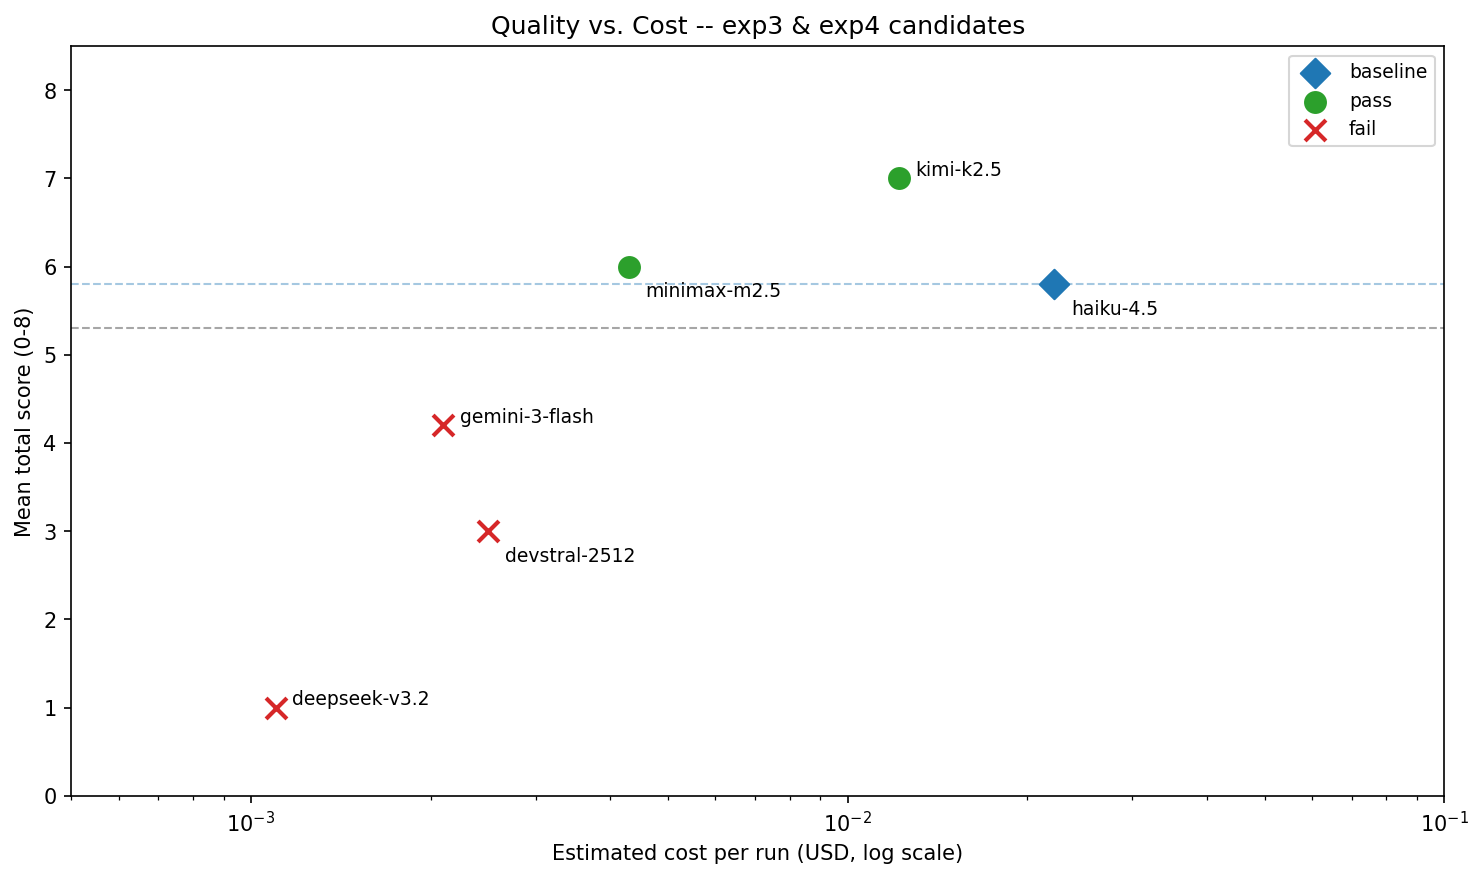
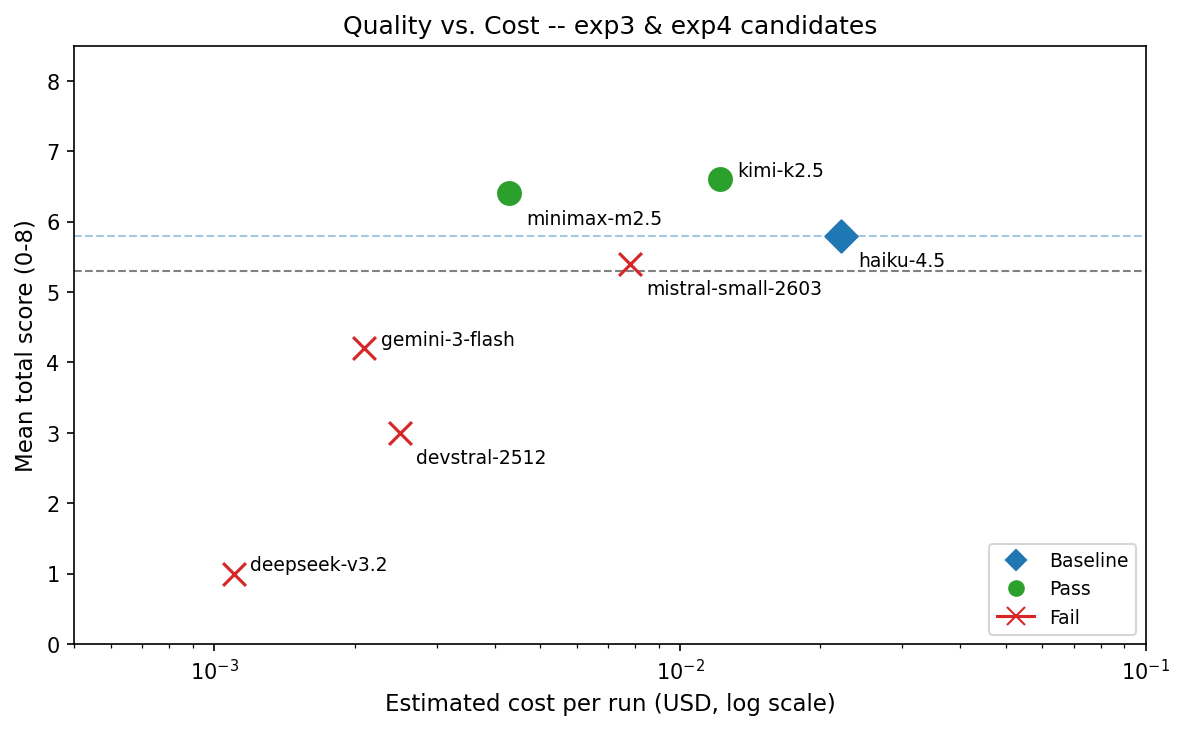
docs(exp4): add mistral-small-2603 results and fix pre-existing mean errors (#20)
* docs(exp4): add mistral-small-2603 results and fix pre-existing mean errors

- Add mistral-small-2603 to README results table: n=5, mean=5.4, verdict=fail
  (fails gate_2: min score 4 < floor threshold 5)
- Fix kimi-k2.5 mean 7.0 -> 6.6 (from scores [8,6,6,6,7] in analysis.json)
- Fix minimax-m2.5 mean 6.0 -> 6.4 (from scores [6,8,6,5,7] in analysis.json)
- Add runs 36-40 to Session Files section (18 total sessions)
- Add Latency Reconstruction Note for runs 36-37 wall times
- Add scores-mistral.json to Documentation section
- Create METHODOLOGY.md: blinding procedure, rubric, gate criteria,
  Mann-Whitney test details, efficiency metric formula, candidate notes
- Update all 4 figure scripts with mistral data and corrected means
- Regenerate all 4 PNGs

Closes #19

* docs: add mistral-small-2603 to root README and fix stale values

- Add mistral-small-2603 to Table 2 (Results): n=5, mean=5.4, error_rate=0.375, verdict=fail
- Add mistral-small-2603 to Table 3 (Efficiency): eff=$0.002/QP (lowest), cost=$0.008/run
- Fix C3 rubric description: 'Cargo.toml absence explicitly noted' (was generic placeholder)
- Fix C4-C8 rubric descriptions to match actual rubric.md definitions
- Fix kimi mean 7.0 -> 6.6 in Tables 2 and 3 (authoritative: analysis.json)
- Fix minimax mean 6.0 -> 6.4 in Tables 2 and 3
- Fix kimi eff $0.038 -> $0.040, minimax eff $0.019 -> $0.018
- Update abstract: 6 models -> 7 models, 28 runs -> 33 runs, corrected means
- Update badges: sessions=33, runs=33
[…]

diff --git a/figures/cost-quality-scatter.py b/figures/cost-quality-scatter.py
@@ -3,10 +3,10 @@ matplotlib.use('Agg')
 import matplotlib.pyplot as plt
 from matplotlib.lines import Line2D
 
-models     = ["haiku-4.5", "kimi-k2.5", "minimax-m2.5", "gemini-3-flash", "devstral-2512", "deepseek-v3.2"]
-cost_usd   = [0.0222, 0.0122, 0.0043, 0.0021, 0.0025, 0.0011]
-mean_score = [5.8, 7.0, 6.0, 4.2, 3.0, 1.0]
-verdicts   = ["baseline", "pass", "pass", "fail", "fail", "fail"]
+models     = ["haiku-4.5", "kimi-k2.5", "minimax-m2.5", "gemini-3-flash", "devstral-2512", "deepseek-v3.2", "mistral-small-2603"]
+cost_usd   = [0.0222, 0.0122, 0.0043, 0.0021, 0.0025, 0.0011, 0.0078]
+mean_score = [5.8, 6.6, 6.4, 4.2, 3.0, 1.0, 5.4]
+verdicts   = ["baseline", "pass", "pass", "fail", "fail", "fail", "fail"]
 
 colors  = {"baseline": "#1f77b4", "pass": "#2ca02c", "fail": "#d62728"}
 markers = {"baseline": "D", "pass": "o", "fail": "x"}
@@ -17,6 +17,7 @@ offsets = {
     "gemini-3-flash": (8,   4),
     "devstral-2512":  (8, -12),
     "deepseek-v3.2":  (8,   4),
+    "mistral-small-2603": (8, -12),
 }
 
 fig, ax = plt.subplots(figsize=(8, 5))

diff --git a/figures/eff-cost-bar.py b/figures/eff-cost-bar.py
@@ -2,9 +2,9 @@ import matplotlib
 matplotlib.use('Agg')
 import matplotlib.pyplot as plt
 
-models    = ["minimax-m2.5", "gemini-3-flash", "deepseek-v3.2", "kimi-k2.5", "devstral-2512", "haiku-4.5"]
-eff_cpqp  = [0.0191,         0.0217,           0.0211,          0.0378,       0.045,           0.1505]
-verdicts  = ["pass",         "fail",           "fail",          "pass",       "fail",          "baseline"]
+models    = ["minimax-m2.5", "gemini-3-flash", "deepseek-v3.2", "mistral-small-2603", "kimi-k2.5", "devstral-2512", "haiku-4.5"]
+eff_cpqp  = [0.0179,         0.0217,           0.0210,          0.0023,               0.0401,       0.045,           0.1505]
+verdicts  = ["pass",         "fail",           "fail",          "fail",               "pass",       "fail",          "baseline"]
 
 # Sort by eff_cpqp ascending
 sorted_data = sorted(zip(eff_cpqp, models, verdicts))

diff --git a/figures/mean-score-bar.py b/figures/mean-score-bar.py
@@ -2,9 +2,9 @@ import matplotlib
 matplotlib.use('Agg')
 import matplotlib.pyplot as plt
 
-models   = ["haiku-4.5\n(baseline)", "gemini-3-flash\n(exp3)", "devstral-2512\n(exp3)", "minimax-m2.5\n(exp4)", "kimi-k2.5\n(exp4)", "deepseek-v3.2\n(exp4)"]
-scores   = [5.8, 4.2, 3.0, 6.0, 7.0, 1.0]
-verdicts = ["baseline", "fail", "fail", "pass", "pass", "fail"]
+models   = ["haiku-4.5\n(baseline)", "gemini-3-flash\n(exp3)", "devstral-2512\n(exp3)", "minimax-m2.5\n(exp4)", "kimi-k2.5\n(exp4)", "deepseek-v3.2\n(exp4)", "mistral-small-2603\n(exp4)"]
+scores   = [5.8, 4.2, 3.0, 6.4, 6.6, 1.0, 5.4]
+verdicts = ["baseline", "fail", "fail", "pass", "pass", "fail", "fail"]
 
 colors = {"baseline": "#1f77b4", "pass": "#2ca02c", "fail": "#d62728"}
 bar_colors = [colors[v] for v in verdicts]

diff --git a/figures/criterion-heatmap.py b/figures/criterion-heatmap.py
@@ -10,6 +10,7 @@ models = [
     'gemini-3-flash\n(fail)',
     'devstral-2512\n(fail)',
     'deepseek-v3.2\n(fail)',
+    'mistral-small-2603\n(fail)',
 ]
 criteria = ['C1', 'C2', 'C3', 'C4', 'C5', 'C6', 'C7', 'C8']
 data = np.array([
@@ -19,9 +20,10 @@ data = np.array([
     [1.0, 1.0, 0.0, 0.8, 0.2, 0.0, 0.2, 1.0],  # gemini
     [1.0, 0.8, 0.0, 0.0, 0.0, 0.0, 0.2, 1.0],  # devstral
     [0.0, 0.0, 0.0, 0.0, 0.0, 0.0, 0.0, 1.0],  # deepseek
+    [1.0, 1.0, 0.0, 1.0, 0.0, 0.6, 0.6, 1.0],  # mistral
 ])
 
-fig, ax = plt.subplots(figsize=(10, 5))
+fig, ax = plt.subplots(figsize=(10, 6))
 cmap = plt.get_cmap('RdYlGn')
 im = ax.imshow(data, cmap=cmap, vmin=0, vmax=1, aspect='auto')
 

diff --git a/README.md b/README.md
@@ -4,10 +4,10 @@
 
 [![DOI](https://zenodo.org/badge/DOI/10.5281/zenodo.19056876.svg)](https://doi.org/10.5281/zenodo.19056876)
 [![License: Apache 2.0](https://img.shields.io/badge/License-Apache%202.0-blue.svg)](LICENSE)
-[![Sessions](https://img.shields.io/badge/sessions-28-green)](experiments/)
-[![Runs](https://img.shields.io/badge/runs-28-blue)](experiments/)
+[![Sessions](https://img.shields.io/badge/sessions-33-green)](experiments/)
+[![Runs](https://img.shields.io/badge/runs-33-blue)](experiments/)
 
-Deploying LLM agents at scale demands cost-effective model selection for each role in a multi-agent pipeline. We investigate whether open-weight models can serve as drop-in replacements for a proprietary baseline (Claude Haiku 4.5) in a specialized research synthesis agent role, using a pre-registered, blinded 8-criterion binary rubric across two sequential experiments (6 models, 28 runs; approximately 4-5 runs per model). Candidate quality was evaluated against a Mann-Whitney U non-inferiority criterion (alpha=0.05). Two candidates meet all non-inferiority thresholds: Kimi K2.5 (mean 7.0/8) and MiniMax M2.5 (mean 6.0/8; API cost 87% lower than the baseline per run). Two candidates fail on reliability: Qwen3 Coder (0 of 7 valid runs) and DeepSeek V3.2 (40% error rate); Gemini 3 Flash and Devstral 2512 also fail to meet quality thresholds. Results are limited to a single task type and pipeline configuration; generalizability to other agent roles requires further study. The evaluation protocol is released as a reusable template for role-level model substitution assessments in multi-agent systems.
+Deploying LLM agents at scale demands cost-effective model selection for each role in a multi-agent pipeline. We investigate whether open-weight models can serve as drop-in replacements for a proprietary baseline (Claude Haiku 4.5) in a specialized research synthesis agent role, using a pre-registered, blinded 8-criterion binary rubric across two sequential experiments (7 models, 33 runs; approximately 4-5 runs per model (except DeepSeek V3.2: 3 valid due to infrastructure failures)). Candidate quality was evaluated against a Mann-Whitney U non-inferiority criterion (alpha=0.05). Two candidates meet all non-inferiority thresholds: Kimi K2.5 (mean 6.6/8) and MiniMax M2.5 (mean 6.4/8; API cost 87% lower than the baseline per run). Two candidates fail on reliability: Qwen3 Coder (0 of 7 valid runs) and DeepSeek V3.2 (40% error rate); Gemini 3 Flash, Devstral 2512, and Mistral Small 2603 also fail to meet quality thresholds. Results are limited to a single task type and pipeline configuration; generalizability to other agent roles requires further study. The evaluation protocol is released as a reusable template for role-level model substitution assessments in multi-agent systems.
 
 </div>
 
@@ -21,28 +21,31 @@ Can open-weight models serve as drop-in replacements for a proprietary LLM basel
 |-----------|-------------|
 | C1 | Correct problem decomposition |
 | C2 | Appropriate tool selection |
-| C3 | Valid syntax across all artifacts |
-| C4 | Handles edge cases |
-| C5 | Error handling present |
-| C6 | No redundant or circular logic |
-| C7 | Architecture matches specification |
-| C8 | Code usability and clarity |
+| C3 | Cargo.toml absence explicitly noted |
+| C4 | Hybrid vs. full-migration tradeoff articulated with codebase evidence |
+| C5 | At least 2 specific patterns identified as requiring multi-line detection |
+| C6 | Data-flow/taint tracking gap noted as unsolved by tree-sitter alone |
+| C7 | Non-obvious architectural implication requiring code synthesis |
+| C8 | Valid JSON output per handoff schema |
 
-*Table 1: Eight-criterion binary scoring rubric (0-8 total). Applied identically across exp3 and exp4; rubric locked before any delegates were spawned.*
+*Table 1: Eight-criterion binary scoring rubric (0-8 total). Rubric locked before any delegates were spawned. C3 definition was refined between exp3 and exp4 (exp3 C3: "Tree-sitter dependency absent from Cargo.toml"; exp4 C3: "Cargo.toml absence explicitly noted by the delegate"). Exp3 scores were not rescored under the updated definition; reported means reflect the rubric version in effect at time of scoring.*
 
 ## Results
 
-| Model | Exp | n | Mean | Error rate | Verdict |
-|-------|-----|---|------|------------|---------|
-| Claude Haiku 4.5 | 3 | 5 | 5.8 | 0.0 | baseline |
-| Qwen3 Coder | 3 | 0 | n/a | 1.0 | excluded (0/7 valid runs) |
-| Gemini 3 Flash | 3 | 5 | 4.2 | 0.0 | fail |
-| Devstral 2512 | 3 | 5 | 3.0 | 0.0 | fail |
-| MiniMax M2.5 | 4 | 5 | 6.0 | 0.0 | pass |
-| DeepSeek V3.2 | 4 | 3 | 1.0 | 0.4 | fail |
-| Kimi K2.5 | 4 | 5 | 7.0 | 0.0 | pass |
+| Model | n | Mean | Error rate | Verdict |
+|-------|---|------|------------|---------|
+| Claude Haiku 4.5 | 5 | 5.8 | 0.0 | baseline |
+| Kimi K2.5 | 5 | 6.6 | 0.0 | pass |
+| MiniMax M2.5 | 5 | 6.4 | 0.0 | pass |
+| Mistral Small 2603 | 5 | 5.4 | 0.375 | fail |
+| Gemini 3 Flash | 5 | 4.2 | 0.0 | fail |
+| Devstral 2512 | 5 | 3.0 | 0.0 | fail |
+| DeepSeek V3.2 | 3 | 1.0 | 0.4 | fail |
+| Qwen3 Coder | 0 | n/a | 1.0 | excluded (0/7 valid runs) |
 
-*Table 2: Per-model results across exp3 (discovery) and exp4 (validation). Error rate = fraction of runs that failed to produce valid output. Exp4 candidates compared against the exp3 baseline; Mann-Whitney U p-values are in analysis.json.*
+*Table 2: Per-model results. Baseline first, then sorted by mean score descending. Error rate = fraction of runs that failed to produce valid output. Exp3 = discovery round (Haiku 4.5, Qwen3 Coder, Gemini 3 Flash, Devstral 2512); exp4 = validation round (MiniMax M2.5, DeepSeek V3.2, Kimi K2.5, Mistral Small 2603). Full data in experiments/. Mann-Whitney U p-values in analysis.json. Verdict requires passing all four gates: mean > 5.3, min score >= 5, n_valid >= 5, and Mann-Whitney non-inferiority (p >= 0.05 vs baseline). A model can fail despite a mean above the threshold if any other gate fails (e.g., Mistral Small 2603: mean=5.4 passes gate 1 but min score=4 fails gate 2).*
+
+### Mean Score
 
 ![Mean score bar chart](figures/mean-score-bar.png)
 
@@ -54,7 +57,7 @@ Cost and token efficiency data are in `efficiency.json` within each experiment d
 
 ![Criterion pass rate heatmap](figures/criterion-heatmap.png)
 
-*Figure 2: Pass rate per criterion (C1-C8) for all six evaluated models across exp3 and exp4. Values are the fraction of valid runs satisfying each binary criterion (0.0-1.0). Row order: baseline, passing candidates, failing candidates.*
+*Figure 2: Pass rate per criterion (C1-C8) for all seven evaluated models across exp3 and exp4. Values are the fraction of valid runs satisfying each binary criterion (0.0-1.0). Row order: baseline, passing candidates, failing candidates.*
 
 ### Cost vs. Quality
 
@@ -68,16 +71,17 @@ Composite metric: `eff_cost_per_qp = cost_per_run / (mean_score * reliability)`.
 
 | Model | Score | Cost/Run | Reliability | Eff. $/QP | Wall Time | Verdict |
 |-------|-------|----------|-------------|-----------|-----------|---------|
-| MiniMax M2.5 | 6.0 | $0.115 | 1.000 | **$0.019** | 5.1m | pass |
+| Mistral Small 2603 | 5.4 | $0.008 | 0.625 | **$0.002** | 1.8m | fail |
+| MiniMax M2.5 | 6.4 | $0.115 | 1.000 | $0.018 | 5.1m | pass |
 | DeepSeek V3.2 | 1.0 | $0.007 | 0.333 | $0.021 | 2.1m | fail |
 | Gemini 3 Flash | 4.2 | $0.057 | 0.625 | $0.022 | 2.7m | fail |
-| Kimi K2.5 | 7.0 | $0.221 | 0.833 | $0.038 | 11.6m | pass |
+| Kimi K2.5 | 6.6 | $0.221 | 0.833 | $0.040 | 11.6m | pass |
 | Devstral 2512 | 3.0 | $0.113 | 0.833 | $0.045 | 2.6m | fail |
 | Haiku 4.5 | 5.8 | $0.873 | 1.000 | $0.150 | 2.8m | baseline |
 
 *Table 3: Composite efficiency metric (eff_cost_per_qp) per model. Sort order: ascending eff_cost_per_qp. Qwen3 Coder omitted (0 valid runs; metric undefined). DeepSeek V3.2 included for completeness but fails all quality gates.*
 
-DeepSeek V3.2 ranks 2nd by this metric but fails all gates; eff_cost_per_qp is not a valid ranking signal for models that do not pass. Among passing candidates, MiniMax M2.5 ($0.019/QP) is 2x more cost-effective per quality point than Kimi K2.5 ($0.038/QP). Wall time is reported separately and is not folded into the composite.
+DeepSeek V3.2 ranks 2nd by this metric but fails all gates; eff_cost_per_qp is not a valid ranking signal for models that do not pass. Among passing candidates, MiniMax M2.5 ($0.018/QP) is 2x more cost-effective per quality point than Kimi K2.5 ($0.040/QP). Wall time is reported separately and is not folded into the composite.
 
 Qwen3 Coder is omitted (0 valid runs; metric is undefined).
 
@@ -205,7 +209,7 @@ All experiments used Goose 1.27.2 as the agent orchestrator. To reproduce:
 
 ## Impact
 
-These experiments directly informed changes to the coder recipe. Following exp4 results and a parallel refactor of the `code-analyze` MCP server to reduce token overhead ([clouatre-labs/code-analyze-mcp#264](https://github.com/clouatre-labs/code-analyze-mcp/issues/264)), SCOUT was upgraded from Claude Haiku 4.5 to Claude Sonnet 4.6; the lower per-token cost of the compact MCP format made Sonnet viable at SCOUT's session length. The recipe was rewritten to define each agent role as a named subagent file, achieving cross-compatibility between Goose and Claude Code (see [blog post](https://clouatre.ca/posts/orchestrating-ai-agents-subagent-architecture/)). MiniMax M2.5 (exp4: mean 6.0/8, error rate 0.0) was adopted for GUARD with a reduced adversarial scope, replacing Haiku at lower cost.
+These experiments directly informed changes to the coder recipe. Following exp4 results and a parallel refactor of the `code-analyze` MCP server to reduce token overhead ([clouatre-labs/code-analyze-mcp#264](https://github.com/clouatre-labs/code-analyze-mcp/issues/264)), SCOUT was upgraded from Claude Haiku 4.5 to Claude Sonnet 4.6; the lower per-token cost of the compact MCP format made Sonnet viable at SCOUT's session length. The recipe was rewritten to define each agent role as a named subagent file, achieving cross-compatibility between Goose and Claude Code (see [blog post](https://clouatre.ca/posts/orchestrating-ai-agents-subagent-architecture/)). MiniMax M2.5 (exp4: mean 6.4/8, error rate 0.0) was adopted for GUARD with a reduced adversarial scope, replacing Haiku at lower cost.
 
 ## Limitations
 

diff --git a/experiments/exp4-model-comparison-r2/README.md b/experiments/exp4-model-comparison-r2/README.md
@@ -2,7 +2,7 @@
 
 ## Research Question
 
-Do higher-tier open-weight models (MiniMax M2.5, DeepSeek V3.2, Kimi K2.5) provide viable SCOUT delegate candidates while maintaining reasonable cost?
+Do higher-tier open-weight models (MiniMax M2.5, DeepSeek V3.2, Kimi K2.5, Mistral Small 2603) provide viable SCOUT delegate candidates while maintaining reasonable cost?
 
 ## Context
 
@@ -18,23 +18,27 @@ The baseline (Claude Haiku 4.5, mean=5.8) is reused from exp3 to enable cross-ro
 | MiniMax M2.5 | OpenRouter | ~$0.02 |
 | DeepSeek V3.2 | OpenRouter | ~$0.01 |
 | Kimi K2.5 | OpenRouter | ~$0.03 |
+| Mistral Small 2603 | OpenRouter | ~$0.008 |
 
 ## Results
 
 | Model | n valid | Mean | Error rate | p vs Haiku | r | Verdict |
 |-------|---------|------|------------|-----------|---|---------|
 | Claude Haiku 4.5 (baseline) | 5 | 5.8 | 0.0 | -- | -- | baseline |
-| MiniMax M2.5 | 5 | 6.0 | 0.0 | 0.492 | 0.28 | pass |
-| DeepSeek V3.2 | 3 | 1.0 | 0.4 | 0.018 | -1.0 | fail |
-| Kimi K2.5 | 5 | 7.0 | 0.0 | 0.183 | 0.60 | pass |
+| MiniMax M2.5 | 5 | 6.4 | 0.0 | 0.524 | -0.32 | pass |
+| DeepSeek V3.2 | 3 | 1.0 | 0.4 | 0.036 | 1.0 | fail |
+| Kimi K2.5 | 5 | 6.6 | 0.0 | 0.238 | -0.48 | pass |
+| Mistral Small 2603 | 5 | 5.4 | 0.375 | 1.000 | 0.04 | fail |
 
 ## Key Finding
 
-Two of three candidates pass all gate criteria. Kimi K2.5 (mean=7.0) outperforms the baseline, demonstrating that higher-tier open-weight models can exceed Haiku 4.5 quality on SCOUT tasks. DeepSeek V3.2 fails all four gates with a 40% run error rate, suggesting infrastructure or prompt-adherence issues.
+Two of four candidates pass all gate criteria. Kimi K2.5 (mean=6.6) outperforms the baseline, demonstrating that higher-tier open-weight models can exceed Haiku 4.5 quality on SCOUT tasks. MiniMax M2.5 also passes. DeepSeek V3.2 and Mistral Small 2603 fail: DeepSeek exhibits infrastructure issues (40% error rate), while Mistral fails the minimum score gate (lowest run scored 4 vs required threshold 5) despite passing the mean gate (5.4 > 5.3).
 
 ## Session Gap Note
 
 Runs 27 and 30 are absent from the session directory. DeepSeek V3.2 produced no parseable JSON output on those two attempts (logged in `latency-log.jsonl`).
+
+Runs 36-40 (Mistral Small 2603) appear as separate batches in `sessions/`: runs 36-37 have longer time gaps between associated log entries and were executed in a separate session batch from runs 38-40.
 
 ## Documentation
 
@@ -44,6 +48,7 @@ Runs 27 and 30 are absent from the session directory. DeepSeek V3.2 produced no 
 - **Scorer Prompt**: [scorer-prompt.md](scorer-prompt.md) — prompt template for rubric-based evaluation
 - **Analysis**: [analysis.json](analysis.json) — parsed scores with statistical summaries
 - **Scores**: [scores.json](scores.json) — raw run-level scores per criterion
+- **Scores (Mistral)**: [scores-mistral.json](scores-mistral.json) — raw run-level scores for Mistral Small 2603
 - **Efficiency**: [efficiency.json](efficiency.json) — latency and token usage per run
 - **Label Map**: [label-map.json](label-map.json) — run_id to model name mapping (sealed before scoring; revealed after)
 - **Latency Log**: [latency-log.jsonl](latency-log.jsonl) — per-line timing data for all runs
@@ -54,13 +59,18 @@ This experiment uses the same 8-criterion rubric as exp3. See `rubric.md` in thi
 
 ## Session Files
 
-13 session records are stored in `sessions/`:
+18 session records are stored in `sessions/`:
 - `scout-run-21.json` through `scout-run-25.json`: MiniMax M2.5
 - `scout-run-26.json`: DeepSeek V3.2 (run 1 of 3)
 - `scout-run-28.json` through `scout-run-29.json`: DeepSeek V3.2 (runs 2-3, sparse)
 - `scout-run-31.json` through `scout-run-35.json`: Kimi K2.5
+- `scout-run-36.json` through `scout-run-40.json`: Mistral Small 2603
 - Runs 27 and 30 (DeepSeek V3.2) are absent due to JSON parsing failures
 
 ## Methodology
 
-See [parent repository README](../../README.md) for full methodology and architectural overview of SCOUT.
+See [METHODOLOGY.md](METHODOLOGY.md) for blinding protocol, rubric details, scoring procedure, gate criteria, and statistical tests. See [parent repository README](../../README.md) for full architectural overview of SCOUT.
+
+## Latency Reconstruction Note
+
+Runs 36-37 (Mistral Small 2603) wall times are derived from sessions.db created_at timestamps rather than directly measured in latency-log.jsonl. Run 36 attempt 1 produced truncated output (4 tokens) requiring retry; run 37 attempt 2 completed successfully (381 tokens). Wall time values in efficiency.json reflect individual session durations, not cumulative retry overhead.

diff --git a/experiments/exp4-model-comparison-r2/METHODOLOGY.md b/experiments/exp4-model-comparison-r2/METHODOLOGY.md
@@ -1,0 +1,78 @@
+# Experiment 4: Methodology
+
+## Experimental Design
+
+Four candidates tested against Claude Haiku 4.5 baseline (reused from exp3). 5 runs per candidate (DeepSeek V3.2: 3 valid from 9 total attempts; Mistral Small 2603: 5 valid from 8 total attempts). Blind scoring protocol applied uniformly across all candidates.
+
+## Blinding Procedure
+
+- label-map.json sealed before first run
+- Scorer receives run IDs only (no model names or identifying information)
+- Scores recorded in scores.json with per-criterion justifications
+- Label map revealed only after all scoring complete
+- Mistral Small 2603 (runs 36-40) scored in a separate session using identical blinding protocol
+
+## Rubric
+
+8-criterion binary rubric (0 or 1 per criterion, max total = 8):
+
+- C1: Identifies correct primary file
+- C2: Explains current pattern and limitation
+- C3: Acknowledges tree-sitter is absent from Cargo.toml (not a current dependency)
+- C4: Proposes 3 approaches with codebase evidence
+- C5: Names specific pattern IDs requiring multi-line detection
+- C6: Acknowledges AST-only limitation for data-flow/taint tracking
+- C7: Non-obvious architectural synthesis beyond issue text
+- C8: Valid JSON output matching schema
+
+Note: C3 criterion was refined from exp3 (now requires explicit acknowledgment of tree-sitter absence, not just version citation).
+
+## Scoring Procedure
+
+- Scorer: mistral-large (blind to run identity)
+- Scores recorded in scores.json with per-criterion justification notes
+- Mistral Small 2603 blind scores with justifications in scores-mistral.json
+- All criterion scores are binary (0 or 1)
+
+## Gate Criteria
+
+All four gates must pass for a PASS verdict:
+
+| Gate | Criterion | Threshold |
+|------|-----------|-----------|
+| G1 | Mean score > baseline floor | > 5.3 (haiku mean - 0.5) |
+| G2 | Floor score | >= 5 (no run below 5) |
+| G3 | Valid runs | >= 5 |
+| G4 | Non-inferiority (Mann-Whitney) | p >= 0.05 (no significant degradation) |
+
+## Statistical Test
+
+Mann-Whitney U test, two-tailed, exact permutation (exhaustive). Alpha = 0.05. Effect size: rank-biserial correlation r_rb.
+
+Note: No Bonferroni correction applied (exploratory analysis across 4 pairwise comparisons; limitation noted in analysis).
+
+## Efficiency Metric
+
+eff_cost_per_qp = cost_per_run / (mean_score * reliability)
+
+Where reliability = n_valid / n_total_attempts.
+
+Costs based on OpenRouter pricing (as of experiment run date). Token counts accumulated from session metadata in sessions.db.
+
+## Candidate-Specific Notes
+
+### DeepSeek V3.2
+
+Runs 27 and 30 produced no parseable JSON output after 3 attempts each. Both logged in latency-log.jsonl. n_total_attempts=9 (run-26: 1, run-27: 3, run-28: 1, run-29: 1, run-30: 3). Reliability = 3/9 = 0.33.
+
+### Mistral Small 2603
+
+8 total attempts across 5 run slots. Reliability = 5/8 = 0.625. Passes mean gate (5.4 > 5.3) but fails gate_2 (min score 4 < threshold 5). Criterion pass rates: C1=1.0, C2=1.0, C3=0.0, C4=1.0, C5=0.0, C6=0.6, C7=0.6, C8=1.0. Mann-Whitney p=1.0 (no significant difference vs baseline).
+
+### Kimi K2.5
+
+6 total attempts; run 33 required retry. Reliability = 5/6 = 0.83.
+
+## Mistral Latency Reconstruction Note
+
+Runs 36-37 wall times are derived from sessions.db created_at timestamps rather than directly measured in latency-log.jsonl. Run 36 attempt 1 produced truncated output (4 tokens), requiring a retry. Run 37 attempt 2 completed successfully (381 tokens output). Wall time values in efficiency.json reflect individual session duration, not cumulative retry time across attempts.

diff --git a/METHODOLOGY.md b/METHODOLOGY.md
@@ -43,12 +43,13 @@ Baseline and three candidate models, each tested n=5:
 
 ### Experiment 4 (Validation Phase)
 
-Baseline reused (exp3 runs 1-5) and three new candidates, each n=5 (DeepSeek n=3 due to failures):
+Baseline reused (exp3 runs 1-5) and four new candidates, each n=5 (DeepSeek n=3 due to failures; Mistral n=5 valid from 8 attempts):
 
 - **Claude Haiku 4.5 (baseline):** Reused from exp3 (mean=5.8)
 - **MiniMax M2.5:** Chinese Minimax, open-weight via OpenRouter
 - **DeepSeek V3.2:** Chinese DeepSeek, commercial API
 - **Kimi K2.5:** Chinese Moonshot, commercial API
+- **Mistral Small 2603:** Mistral AI, commercial API via OpenRouter
 
 ## Blinding Procedure
 
